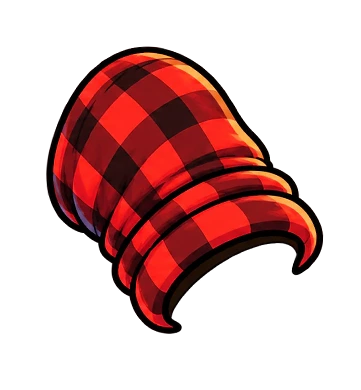
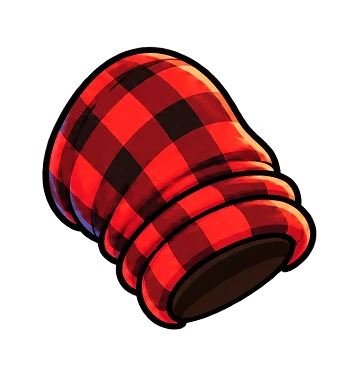
Elbow: lined sleeves redrawn by ImageGen (opening shows the dark inside of the rolled sleeve, no fur) and re-registered; forearm drawn in front of the sleeve but masked upstream of the opening plane, so it comes out of the sleeve toward the viewer with no disc, no see-through notch and no fur beside
Claude-Session: https://claude.ai/code/session_019y9mnUXUPaEfc3RnRYJBge

Changed region(s): [[0.0914, 0.0923, 0.9141, 0.8615], [0.3047, 0.3385, 0.3657, 0.4308], [0.2742, 0.4308, 0.3047, 0.4615]]

diff --git a/src/render/mascot/Buck.ts b/src/render/mascot/Buck.ts
@@ -20,8 +20,9 @@ import { autoVia, bezier, extension, fk, naturalSide, polePoint, solve, solveTip
  *   poing, allumette) sur une cible en px du torse ; la main y va en arc, le coude reste à l'extérieur et ne
  *   change de côté que bras tendu. Une action interrompue repart de la position réelle de la main.
  * - Ordre de dessin : bras devant le torse (les manches couvrent les épaules), derrière la tête ; devant la tête
- *   seulement quand la main touche le visage ou le casque. Au coude : l'avant-bras sort de sous la manche
- *   (manches redessinées, bout creux) ; coude très plié : il passe devant la manche. Main sur l'avant-bras.
+ *   seulement quand la main touche le visage ou le casque. Au coude : l'avant-bras sort de l'ouverture de la manche
+ *   (manches redessinées, intérieur sombre visible), dessiné devant elle et masqué en amont de l'ouverture (voir
+ *   clipForearm) ; coude très plié : entier devant la manche. Main sur l'avant-bras.
  * - Accessoires (détonateur) : timeline à part, jamais tuée par une action suivante ; reset() les range.
  */
 type BuckJson = RigDef & {
@@ -205,69 +206,49 @@ export class Buck {
   }
 
   /**
-   * Coude : l'avant-bras ne se montre qu'au-delà du coude (côté main de la bissectrice du coude) et dans l'ouverture
-   * de la manche ; il ne dépasse plus à côté de la manche vers l'épaule. Masque dans le repère du bras (suit la pliure).
+   * Coude. La manche (dessin ImageGen) montre son ouverture et l'intérieur sombre du tube ; l'avant-bras en sort vers
+   * nous : il est dessiné DEVANT la manche mais n'apparaît qu'en aval du plan de l'ouverture (côté main du grand axe de
+   * l'ellipse) et dans l'ellipse elle-même. En amont, il est dans la manche : caché (jamais de fourrure à côté de la
+   * manche). Coude très plié (> 103°, retour sous 85°) : l'avant-bras passe entier devant la manche.
+   * Masque dans le repère du bras (suit la pliure).
    */
   private clipForearm(side: Side): void {
     const a = IK[side];
     const m = this.elbowMask[side];
     const fore = this.rig.part(a.fore);
-    // coude très plié (> 103°, retour sous 85°) : l'avant-bras passe DEVANT la manche, entier ; sinon il sort de dessous
-    // (replié sous la manche, son bout arrondi réapparaîtrait dans l'ouverture comme un disque)
     const bend = Math.abs(wrap(fore.angle + a.foreAxis - a.upperAxis));
     const folded = this.folded[side] ? bend > 85 : bend > 103;
     this.folded[side] = folded;
-    // réappliqué à chaque image : resetZ() du retour au repos ne doit pas le défaire
-    const z = folded ? 1 : (PART[a.fore]!.z ?? -1);
-    if (fore.zIndex !== z) fore.zIndex = z;
-    if (folded) {
-      m.clear().rect(-5000, -5000, 10000, 10000).fill(0xffffff);
+    m.clear();
+    const op = a.opening;
+    if (folded || !op) {
+      m.rect(-5000, -5000, 10000, 10000).fill(0xffffff);
       return;
     }
-    const hand = PART[a.hand]!;
-    const fp = PART[a.fore]!;
-    const k = fp.scale ?? 1;
-    // coude et directions (repère du bras : origine = épaule)
-    const ex = fore.x;
-    const ey = fore.y;
-    const ul = Math.hypot(ex, ey) || 1;
-    const u: Vec = [-ex / ul, -ey / ul];
-    const vx = (hand.attach![0] - fp.pivot[0]) * k;
-    const vy = (hand.attach![1] - fp.pivot[1]) * k;
-    const c = Math.cos(fore.rotation);
-    const s = Math.sin(fore.rotation);
-    const fx = vx * c - vy * s;
-    const fy = vx * s + vy * c;
-    const fl = Math.hypot(fx, fy) || 1;
-    let nx = fx / fl - u[0];
-    let ny = fy / fl - u[1];
-    const nl = Math.hypot(nx, ny) || 1;
-    nx /= nl;
-    ny /= nl;
-    const d = 12;
-    const L = 3000;
-    const ox = ex - nx * d;
-    const oy = ey - ny * d;
+    const ap = PART[a.upper]!;
+    const ka = ap.scale ?? 1;
+    const cx = (op.c[0] - ap.pivot[0]) * ka;
+    const cy = (op.c[1] - ap.pivot[1]) * ka;
+    const t = (op.deg * Math.PI) / 180;
+    // plan de l'ouverture : grand axe de l'ellipse ; normale orientée à l'opposé de l'épaule (origine du repère)
+    let nx = -Math.sin(t);
+    let ny = Math.cos(t);
+    if (nx * cx + ny * cy < 0) {
+      nx = -nx;
+      ny = -ny;
+    }
     const tx = -ny;
     const ty = nx;
-    m.clear();
-    m.poly([ox + tx * L, oy + ty * L, ox + tx * L + nx * L, oy + ty * L + ny * L, ox - tx * L + nx * L, oy - ty * L + ny * L, ox - tx * L, oy - ty * L]).fill(0xffffff);
-    const op = a.opening;
-    if (op) {
-      const ap = PART[a.upper]!;
-      const ka = ap.scale ?? 1;
-      const cx = (op.c[0] - ap.pivot[0]) * ka;
-      const cy = (op.c[1] - ap.pivot[1]) * ka;
-      const t = (op.deg * Math.PI) / 180;
-      const pts: number[] = [];
-      for (let i = 0; i < 28; i++) {
-        const w = (i / 28) * Math.PI * 2;
-        const px = Math.cos(w) * op.r[0] * ka;
-        const py = Math.sin(w) * op.r[1] * ka;
-        pts.push(cx + px * Math.cos(t) - py * Math.sin(t), cy + px * Math.sin(t) + py * Math.cos(t));
-      }
-      m.poly(pts).fill(0xffffff);
+    const L = 3000;
+    m.poly([cx + tx * L, cy + ty * L, cx + tx * L + nx * L, cy + ty * L + ny * L, cx - tx * L + nx * L, cy - ty * L + ny * L, cx - tx * L, cy - ty * L]).fill(0xffffff);
+    const pts: number[] = [];
+    for (let i = 0; i < 28; i++) {
+      const w = (i / 28) * Math.PI * 2;
+      const px = Math.cos(w) * op.r[0] * ka;
+      const py = Math.sin(w) * op.r[1] * ka;
+      pts.push(cx + px * Math.cos(t) - py * Math.sin(t), cy + px * Math.sin(t) + py * Math.cos(t));
     }
+    m.poly(pts).fill(0xffffff);
   }
 
   /** bas des semelles dans le repère du corps (px), calculé par la chaîne cuisse -> tibia au repos */

diff --git a/docs/DECISIONS.md b/docs/DECISIONS.md
@@ -74,7 +74,7 @@ Retour de l'utilisateur : « la mascotte a un problème avec ses bras et ses mou
   - au repos, les bras sont fléchis, coudes dehors, comme l'illustration de référence ;
   - la queue est posée au sol derrière la botte et y reste quand Buck s'accroupit.
 - **Raccord poignet-main** : l'alpha de la main s'estompe sur le bord qui s'emboîte dans l'avant-bras. C'est une étape déterministe de la chaîne d'assets (`feather` dans `tools/assets/assets.config.json`) ; l'illustration n'est pas modifiée.
-- **Coude** (retours de l'utilisateur : « le haut du bras passe dessus le bas du bras », puis « il y a toujours des problèmes » avec captures) : ImageGen avait peint au bout de chaque manche la section du bras, un disque de fourrure cerné de noir, qui faisait moignon sur l'avant-bras. Aucune retouche par calques ne donnait un bon raccord : il restait une bande de fourrure dans le bout de la manche. **Les deux manches ont donc été redessinées par ImageGen** (`docs/imagegen/buck-sleeves.txt` → `assets/generated/mascot/buck-sleeves.png`, bout creux, retroussis vu de côté), puis **recalées automatiquement** sur les anciennes (`tools/assets/align_piece.py`, IoU 0,95 et 0,97 ; même taille, même angle, mêmes points d'épaule et de coude : rig et IK inchangés). L'avant-bras passe sous la manche et en sort, comme sur l'illustration de référence. Un masque suit la pliure du coude (bissectrice + ouverture de la manche) pour que l'avant-bras ne dépasse jamais à côté de la manche.
+- **Coude** (retours de l'utilisateur : « le haut du bras passe dessus le bas du bras », puis « il y a toujours des problèmes » avec captures) : ImageGen avait peint au bout de chaque manche la section du bras (disque de fourrure cerné de noir), qui faisait moignon. Les découpes par calques laissaient une bande de fourrure dans l'ouverture. **Les deux manches ont été redessinées par ImageGen** en deux passes (`docs/imagegen/buck-sleeves.txt` puis `buck-sleeves-lined.txt` → `assets/generated/mascot/buck-sleeves-lined.png` : retroussis vu de biais, ouverture qui montre l'intérieur sombre du tube, aucune fourrure). Elles sont **recalées automatiquement** sur les anciennes (`tools/assets/align_piece.py`, IoU 0,94 et 0,97 ; mêmes points d'épaule et de coude, rig et IK inchangés). L'avant-bras est dessiné devant la manche mais masqué en amont du plan de l'ouverture (`Buck.clipForearm`) : il **sort de la manche vers le spectateur**, sans jamais dépasser à côté. Coude très plié (plus de 103°) : l'avant-bras passe entier devant la manche. Une vérification indépendante sur les 28 actions a confirmé la disparition du disque et relevé les coudes pliés, corrigés depuis.
 - **Queue** : animée dans le plan du sol, indépendamment du torse, ce qui l'empêche de s'enfoncer dans le sol pendant la danse. La respiration ne l'écrase plus : un bug de Pixi triait les enfants et faisait respirer la queue au lieu du torse.
 - **Gestes réécrits** :
   - l'allumette est prise par le côté au coin de la bouche, frottée sur la dent en or, lancée vers la charge, puis Buck en reprend une ;

diff --git a/docs/imagegen/logs/buck-sleeves-lined.last.md b/docs/imagegen/logs/buck-sleeves-lined.last.md
@@ -1,0 +1,10 @@
+Fichiers produits :
+
+- [buck-sleeves-lined.png](/home/user/slot/assets/generated/mascot/buck-sleeves-lined.png)
+- [Prompt exact](/home/user/slot/assets/generated/mascot/buck-sleeves-lined.prompt.txt)
+
+Méthode : **image_gen natif**, génération puis une reprise corrective. Dimensions : **1536 × 1024**. Canal alpha : **oui**.
+
+Défauts restants : taille, placement et dessin légèrement différents de l’original ; faibles résidus alpha extérieurs ; ouvertures presque opaques (253/255). La conformité stricte demandée n’est donc pas atteinte.
+
+Aucun code du jeu ni autre asset modifié.
